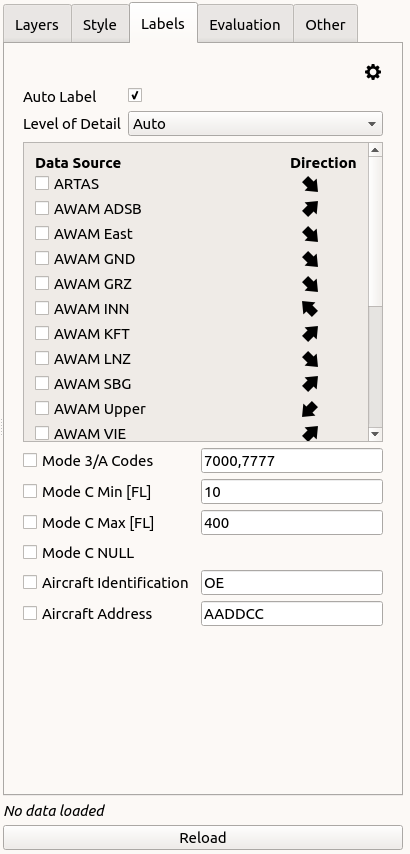
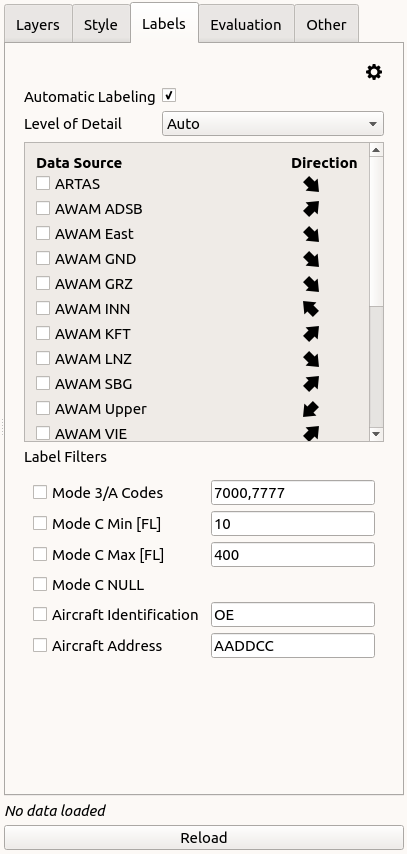
docu update

diff --git a/doc/user_manual/osg/osg_labels_tab.tex b/doc/user_manual/osg/osg_labels_tab.tex
@@ -10,11 +10,121 @@
 In the 'Labels' tab, several elements exist:
 
 \begin{itemize}
- \item Layer Mode: Defines how layers are generated. Please refer to Section \nameref{sec:layer_mode} for details.
- \item Connect Last Layer: Whether grouped target reports in the last layer should be connected using lines
- \item Connect None Height: If groups are connected, whether target reports with not height information should be connected
- \item Blend Mode: Defines the drawing blend mode, allowing clearer symbols (contour) or colors (src-over).
- \item Style: Defines how geometry is styled. Please refer to Section \nameref{sec:style} for details.
- \item Render Order: Defines the drawing order of DBContents. To bottom one is drawn first, the top one last (over all others)
- \item Update button: Triggers a redraw or reload of the geometry, becomes available after a change if needed.
+ \item \includegraphics[width=0.5cm,frame]{../../data/icons/edit.png} button: Edit label contents
+ \item Auto Label Checkbox: Toggles auto-label feature
+ \item Level of Detail: What level of detail should be used for labels
+ \item Data Sources: Selects which data sources to label and label direction
+ \item Label Filters: Filters which targets are labeled
 \end{itemize} 
+\ \\
+
+When the auto-label feature is active and one or more data sources are selected for labeling, automatic labels are generated in the OSG View according to the content and label filter settings. \\
+
+\subsubsection{Label Contents}
+
+When clicking the 'Edit Label Contents' button \includegraphics[width=0.5cm,frame]{../../data/icons/edit.png}, the label content specific to a DBContent can be selected. \\
+
+The label contents are organized in a 3x3 matrix, the contents if the first 2 rows and columns are fixed while row 3 and column 3 can be edited. 
+
+\begin{figure}[H]
+   \center
+    \includegraphics[width=14cm]{figures/osgview_label_content_edit.png}
+  \caption{OSG View Edit Label Contents}
+\end{figure}
+
+Multiple level of details (\textbf{LoD}s) are defined (as indicated with border lines in the edit dialog):
+\begin{itemize}
+ \item LoD 1: 1x1 matrix with the best available identification
+ \item LoD 2: 2x2 matrix, LoD 1 with the most important secondary information
+ \item LoD 3: 3x3 matrix, LoD 2 with some additional information
+\end{itemize} 
+\ \\
+
+\begin{itemize}
+\item LoD 1
+\begin{itemize}
+ \item Row 1, column 1: Best available indentification in bold text, in the following order
+ \begin{itemize}
+ \item Aircraft Identification, Aircraft Address, Mode 3/A Code, or '?' if not available
+ \end{itemize} 
+ \end{itemize} 
+\item LoD 2 
+ \begin{itemize}
+ \item Row 1, column 2: Aircraft Identification
+ \item Row 2, column 1: Mode 3/A Code
+ \item Row 2, column 2: Mode C Code in flight levels
+ \end{itemize} 
+\item LoD 3
+ \begin{itemize}
+ \item Row 1, column 3: Aircraft Address
+ \item Row 2, column 3: Data source ID
+ \item Row 3, column 1: Ground Speed
+ \item Row 3, column 2: empty by default
+ \item Row 3, column 3: Time of Day
+ \end{itemize} 
+\end{itemize} 
+
+
+\subsubsection{Automatic Labeling}
+
+If a data source to be labeled is activated, automatic labels are generated (into the configurated direction) and updated once per second. \\
+
+Please \textbf{note} that when automatic labeling is active, manually created labels are removed once per second. This will be improved in the future.
+
+\begin{figure}[H]
+    \hspace*{-2.5cm}
+    \includegraphics[width=19cm,frame]{figures/osgview_label_lod1.png}
+  \caption{OSG View Auto-Labels LoD 1}
+\end{figure}
+
+For each target (as in the the last layer item according to \nameref{sec:layer_mode}) a single label is created for the latest shown target report. \\
+
+The Level of Detail can have the following values:
+\begin{itemize}
+ \item Auto: Automatic label size depending on number of visible labels
+ \item LoD 1: 1x1 matrix
+ \item LoD 2: 2x2 matrix
+ \item LoD 3: 3x3 matrix
+\end{itemize} 
+\ \\
+
+Depending on the number of visible labels, the LoD is chosen by Auto LoD, if (e.g. with zoom or time window filter operations) the number of visible labels is reduced, a higher LoD is shown.
+
+\begin{figure}[H]
+    \hspace*{-2.5cm}
+    \includegraphics[width=19cm,frame]{figures/osgview_label_lod2.png}
+  \caption{OSG View Auto-Labels LoD 2}
+\end{figure}
+
+The automatic labeling can be most useful when choosing a target-specifc layer mode (e.g. based on unique secondary identification or UTN) and activating the time window filter (or in Live mode).
+
+\begin{figure}[H]
+    \hspace*{-2.5cm}
+    \includegraphics[width=19cm,frame]{figures/osgview_label_lod3.png}
+  \caption{OSG View Auto-Labels LoD 3}
+\end{figure}
+
+
+\subsubsection{Label Filters}
+
+When automatic labeling is activated, labeling of targets can be restricted using the label filters. Each filter can be activated and its filter value set to label only targets with specific attributes. The filters offer similar ways as the ones defined in \nameref{sec:filters}.
+
+\paragraph{Mode 3/A Codes}
+
+When active, this filter forces labeling of data with the given Mode A code(s), so it is possible to give multiple values (in octal notation, separated by commas). E.g. '7000' is possible, or '7000,7777'. Target reports without a given Mode A will not be labeled unless the value 'NULL' is (also) given. \\
+
+\paragraph{Mode C}
+
+When active, based on the Mode C Min and Mode C Max values, target reports are only labeled if the minimum and maximum flight level matches the specified thresholds. Target reports without a Mode C Code will not be labeled unless the NULL checkbox is checked.
+
+\paragraph{Aircraft Identifcation}
+
+When active, this filter forces labeling of data only from aircraft identifications matching the given expression. The percent operator denotes a 'any characters' placeholder. So e.g. '\%TEST\%' will match 'TEST123' or 'TEST123   ' (with spaces) or 'MYTEST'. Target reports without a given aircraft identification will not be labeled unless the value 'NULL' is (also) given.
+
+
+\paragraph{Aircraft Address}
+
+When active, this filter forces labeling of the given Mode S address(es), so it is possible to give multiple values (in hexadecimal notation, irrespective of upper or lower case characters, separated by commas). E.g. 'FEFE10' is possible, or 'FEFE10,FEFE11,FEFE12'. Target reports without a given Mode S address will not be labeled unless the value 'NULL' is (also) given.
+
+
+

diff --git a/doc/user_manual/osg/osg_eval_tab.tex b/doc/user_manual/osg/osg_eval_tab.tex
@@ -6,3 +6,5 @@
     \includegraphics[width=8cm,frame]{figures/osgview_eval_tab.png}
   \caption{OSG View Evaluation tab}
 \end{figure}
+
+In the Evaluation tab, labels exist to denote which evualuation results are currently shown, and colors can be set for the specific requirement results.
